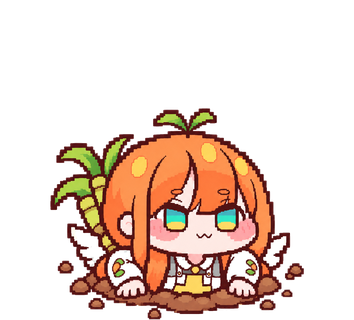
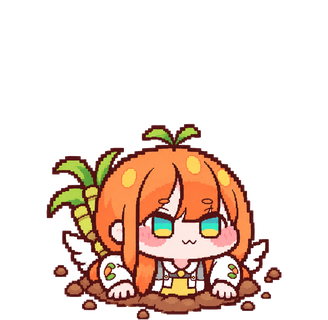
캐릭터 터치: 톡=오늘의 수확, 두 번 톡=정원 초대+메뉴, 꾹 눌러 끌기=볼 당김 이동 / 산책은 1.5초만 걷기

Changed region(s): [[0.122, 0.3125, 0.8841, 1.0]]

diff --git a/android/app/src/main/java/com/oddfactory/carrot/CarrotService.java b/android/app/src/main/java/com/oddfactory/carrot/CarrotService.java
@@ -21,7 +21,15 @@ import android.os.Looper;
 import android.os.Process;
 import android.os.SystemClock;
 import android.os.UserHandle;
+import android.view.Gravity;
+import android.view.MotionEvent;
+import android.view.View;
 import android.view.WindowManager;
+import android.widget.Button;
+import android.widget.LinearLayout;
+import android.graphics.Typeface;
+import android.graphics.RectF;
+import android.graphics.drawable.GradientDrawable;
 import android.view.accessibility.AccessibilityEvent;
 import android.view.accessibility.AccessibilityNodeInfo;
 import android.view.accessibility.AccessibilityWindowInfo;
@@ -50,6 +58,8 @@ public final class CarrotService extends AccessibilityService {
 
     WindowManager wm;
     Stage stage;
+    View grip, menu;              // 캐릭터 몸 위치에만 있는 터치 창, 두 번 톡 메뉴
+    WindowManager.LayoutParams gripLp;
     SharedPreferences prefs;
     final Handler h = new Handler(Looper.getMainLooper());
     String launcher = "";
@@ -85,6 +95,18 @@ public final class CarrotService extends AccessibilityService {
         lp.setTitle("CarrotStage");
         stage.setVisibility(android.view.View.INVISIBLE);
         wm.addView(stage, lp);
+        // 터치 창: 캐릭터 몸 크기만큼만 화면을 받고, 나머지는 아래 앱으로 그대로 간다
+        grip = new View(this);
+        grip.setOnTouchListener(this::onGripTouch);
+        gripLp = new WindowManager.LayoutParams(1, 1, WindowManager.LayoutParams.TYPE_ACCESSIBILITY_OVERLAY,
+                WindowManager.LayoutParams.FLAG_NOT_FOCUSABLE | WindowManager.LayoutParams.FLAG_NOT_TOUCH_MODAL
+                        | WindowManager.LayoutParams.FLAG_LAYOUT_IN_SCREEN | WindowManager.LayoutParams.FLAG_LAYOUT_NO_LIMITS,
+                PixelFormat.TRANSLUCENT);
+        gripLp.gravity = Gravity.TOP | Gravity.START;
+        gripLp.setTitle("CarrotGrip");
+        grip.setVisibility(View.GONE);
+        wm.addView(grip, gripLp);
+        stage.listener = this::placeGrip;
         refreshStale();
         h.post(poll);
         log("connected launcher=" + launcher);
@@ -332,6 +354,83 @@ public final class CarrotService extends AccessibilityService {
         } catch (Exception ignored) {}
     }
 
+    // ---- 터치 ----
+    int gx = -1, gy = -1, gw = -1, gh = -1;
+    void placeGrip(RectF r) {
+        if (grip == null) return;
+        boolean on = !r.isEmpty();
+        if (!on) { if (grip.getVisibility() != View.GONE) grip.setVisibility(View.GONE); return; }
+        int x = Math.round(r.left), y = Math.round(r.top), w = Math.round(r.width()), hh = Math.round(r.height());
+        if (grip.getVisibility() != View.VISIBLE) { grip.setVisibility(View.VISIBLE); gx = -1; }
+        if (x == gx && y == gy && w == gw && hh == gh) return;
+        gx = x; gy = y; gw = w; gh = hh;
+        gripLp.x = x; gripLp.y = y; gripLp.width = w; gripLp.height = hh;
+        try { wm.updateViewLayout(grip, gripLp); } catch (RuntimeException ignored) {}
+    }
+
+    float downX, downY; long lastTapAt; boolean dragging; Runnable pendingTap, longPress;
+    boolean onGripTouch(View v, MotionEvent e) {
+        if (stage == null) return true;
+        float rx = e.getRawX(), ry = e.getRawY();
+        float dp = getResources().getDisplayMetrics().density;
+        switch (e.getActionMasked()) {
+            case MotionEvent.ACTION_DOWN:
+                downX = rx; downY = ry; dragging = false;
+                longPress = () -> dragging = stage.startDrag(downX, downY);
+                h.postDelayed(longPress, 350);
+                return true;
+            case MotionEvent.ACTION_MOVE:
+                if (!dragging && Math.hypot(rx - downX, ry - downY) > 10 * dp) { h.removeCallbacks(longPress); dragging = stage.startDrag(downX, downY); }
+                if (dragging) stage.dragTo(rx, ry);
+                return true;
+            case MotionEvent.ACTION_UP:
+            case MotionEvent.ACTION_CANCEL:
+                h.removeCallbacks(longPress);
+                if (dragging) { dragging = false; stage.endDrag(); return true; }
+                if (e.getActionMasked() == MotionEvent.ACTION_CANCEL) return true;
+                long now = SystemClock.uptimeMillis();
+                if (now - lastTapAt < 300 && pendingTap != null) { // 두 번 톡 → 정원 초대 + 메뉴
+                    h.removeCallbacks(pendingTap); pendingTap = null; lastTapAt = 0;
+                    stage.invite(); showMenu(); return true;
+                }
+                lastTapAt = now;
+                pendingTap = () -> { pendingTap = null; stage.tap(); };
+                h.postDelayed(pendingTap, 300);
+                return true;
+        }
+        return true;
+    }
+
+    void showMenu() {
+        hideMenu();
+        float dp = getResources().getDisplayMetrics().density;
+        LinearLayout box = new LinearLayout(this); box.setOrientation(LinearLayout.VERTICAL);
+        int p = Math.round(10 * dp); box.setPadding(p, p, p, p);
+        GradientDrawable bg = new GradientDrawable(); bg.setColor(0xFFFFFBF2); bg.setCornerRadius(16 * dp); bg.setStroke(Math.round(3 * dp), 0xFF3A2418);
+        box.setBackground(bg);
+        Typeface tf = null; try { tf = getResources().getFont(R.font.maple_bold); } catch (Exception ignored) {}
+        String[] labels = {"설정 열기", "캬롯 종료", "닫기"};
+        Runnable[] acts = {
+                () -> { hideMenu(); Intent i = new Intent(this, MainActivity.class); i.addFlags(Intent.FLAG_ACTIVITY_NEW_TASK); startActivity(i); },
+                () -> { hideMenu(); dismiss(null); },
+                this::hideMenu};
+        for (int i = 0; i < labels.length; i++) {
+            Button b = new Button(this); b.setText(labels[i]); b.setAllCaps(false); if (tf != null) b.setTypeface(tf);
+            final Runnable r = acts[i]; b.setOnClickListener(v -> r.run());
+            box.addView(b);
+        }
+        WindowManager.LayoutParams lp = new WindowManager.LayoutParams(-2, -2, WindowManager.LayoutParams.TYPE_ACCESSIBILITY_OVERLAY,
+                WindowManager.LayoutParams.FLAG_NOT_FOCUSABLE | WindowManager.LayoutParams.FLAG_WATCH_OUTSIDE_TOUCH | WindowManager.LayoutParams.FLAG_NOT_TOUCH_MODAL,
+                PixelFormat.TRANSLUCENT);
+        lp.gravity = Gravity.TOP | Gravity.START;
+        int sw = getResources().getDisplayMetrics().widthPixels;
+        lp.x = Math.round(Math.max(8 * dp, Math.min(sw - 200 * dp, gx + gw / 2f - 100 * dp)));
+        lp.y = Math.round(Math.max(24 * dp, gy - 190 * dp));
+        box.setOnTouchListener((v, ev) -> { if (ev.getActionMasked() == MotionEvent.ACTION_OUTSIDE) hideMenu(); return false; });
+        menu = box; wm.addView(box, lp);
+    }
+    void hideMenu() { if (menu != null) { try { wm.removeView(menu); } catch (RuntimeException ignored) {} menu = null; } }
+
     // ---- 첫 화면에서 부르는 것 ----
     /** 시작: 땅에서 솟아오르며 등장. */
     static void summon() {
@@ -366,6 +465,8 @@ public final class CarrotService extends AccessibilityService {
     @Override public void onDestroy() {
         h.removeCallbacksAndMessages(null);
         if (la != null) la.unregisterCallback(appsCb);
+        hideMenu();
+        if (grip != null) try { wm.removeView(grip); } catch (RuntimeException ignored) {}
         if (stage != null) { stage.stop(); try { wm.removeView(stage); } catch (RuntimeException ignored) {} }
         stage = null;
         if (current == this) current = null;

diff --git a/android/app/src/main/java/com/oddfactory/carrot/Stage.java b/android/app/src/main/java/com/oddfactory/carrot/Stage.java
@@ -63,7 +63,24 @@ final class Stage extends View {
             "e01_cat", 160, "e01_cat@1.12", 70, "e01_cat@0.6", 70, "e01_cat@0.25", 70, "e00_sprout", 300, "e00_sprout@1.15", 70,
             "e00_sprout@0.4", 70, "e00_sprout@0.05", 60);
 
-    enum S { IDLE, WALK, ACT, GRAB, TUG, POP, BARROW_OUT, ENTER, EXIT, OFF }
+    // 볼 당김(꾹 눌러 끌기): 앞 3장은 들어 올려지는 중, 뒤 2장을 누르고 있는 동안 반복
+    static final Clip PULL_IN = new Clip("pull_right_mid", 120, "pull_right_mid2", 140, "pull_right_peak", 160);
+    static final Clip PULL_LOOP = new Clip("pull_right_struggle_a", 150, "pull_right_struggle_b", 150);
+    static final Clip PULL_OUT = new Clip("pull_right_peak", 140, "pull_right_mid", 120, "master", 200);
+    // 한 번 톡: 오늘의 수확(당근을 쑥 뽑아 들어 보임)
+    static final Clip HARVEST = new Clip("master", 200, "h01_notice", 220, "m05_harvest", 240, "m05b_harvest_v2", 300,
+            "h03_popout", 220, "k05_harvest", 1400, "master", 300);
+    // 두 번 톡: 정원 초대(손 흔들기) 뒤 메뉴
+    static final Clip INVITE = new Clip("master", 150, "m06_invite", 160, "m06b_invite", 160, "k06_invite", 1100,
+            "m06b_invite", 160, "m06_invite", 160, "master", 200);
+    static final long WALK_MAX = 1500; // 산책 한 번에 걷는 최대 시간(ms)
+
+    enum S { IDLE, WALK, ACT, GRAB, TUG, POP, BARROW_OUT, ENTER, EXIT, DRAG, OFF }
+
+    interface Listener { void bodyAt(RectF r); }
+    Listener listener;
+    final RectF body = new RectF();
+    float grabDX, grabDY; long dragT0; boolean dragLoop;
     enum Goal { WANDER, DELETE_ONE, LOAD }
 
     final Sprites sp;
@@ -218,8 +235,20 @@ final class Stage extends View {
 
     String pick() {
         List<String> ks = new ArrayList<>(icons.keySet());
-        return ks.isEmpty() ? null : ks.get(rnd.nextInt(ks.size()));
+        if (ks.isEmpty()) return null;
+        if (!Float.isNaN(x)) { // 1.5초 안에 닿는 아이콘을 우선(제자리 아이콘은 빼고)
+            float reach = walkSpeed() * WALK_MAX / 1000f;
+            List<String> near = new ArrayList<>();
+            for (String k : ks) {
+                RectF r = icons.get(k);
+                float d = (float) Math.hypot(r.centerX() - charH() * 0.33f - x, r.bottom - y);
+                if (d <= reach && d > charH() * 0.15f) near.add(k);
+            }
+            if (!near.isEmpty()) return near.get(rnd.nextInt(near.size()));
+        }
+        return ks.get(rnd.nextInt(ks.size()));
     }
+    float walkSpeed() { return charH() * (goal == Goal.WANDER ? 0.55f : 0.9f); }
 
     /** 다음 할 일: 대기열(잡초) 우선, 없으면 아무 아이콘 앞으로 산책. */
     void next() {
@@ -249,7 +278,7 @@ final class Stage extends View {
 
     void arrive() {
         if (target != null && queue.contains(target)) { play(S.GRAB, GRAB); return; }
-        if (target == null && icons.isEmpty() && rnd.nextInt(3) == 0) { idle(1500 + rnd.nextInt(2000)); return; }
+        if (target == null && rnd.nextInt(3) == 0) { idle(1500 + rnd.nextInt(2000)); return; }
         play(S.ACT, rnd.nextBoolean() ? CLAP : WATER);
     }
 
@@ -262,13 +291,16 @@ final class Stage extends View {
             case ENTER:
                 if (t >= ENTER.total) idle(900);
                 break;
+            case DRAG:
+                break;
             case EXIT:
                 if (t >= EXIT.total) { s = S.OFF; x = Float.NaN; Runnable d = onExited; onExited = null; if (d != null) d.run(); }
                 break;
             case WALK: {
                 // 가던 아이콘이 화면에서 사라졌으면(페이지 넘김·다른 앱으로 전환) 새 목적지
                 if (target != null && goal == Goal.WANDER && !icons.containsKey(target)) { next(); break; }
-                float sp = charH() * (goal == Goal.WANDER ? 0.55f : 0.9f);
+                if (goal == Goal.WANDER && t >= WALK_MAX) { target = null; arrive(); break; } // 1.5초만 걷고 그 자리에서
+                float sp = walkSpeed();
                 float dx = tx - x, dy = ty - y, d = (float) Math.hypot(dx, dy);
                 if (d <= sp * dt) { x = tx; y = ty; arrive(); }
                 else { x += dx / d * sp * dt; y += dy / d * sp * dt; }
@@ -318,6 +350,7 @@ final class Stage extends View {
             case POP: return POP.at(t, false);
             case BARROW_OUT: return "b01_barrow";
             case ENTER: return ENTER.at(t, false);
+            case DRAG: return t < PULL_IN.total ? PULL_IN.at(t, false) : PULL_LOOP.at(t - PULL_IN.total, true);
             case EXIT: return EXIT.at(t, false);
             case IDLE: return (t % 3200) > 3040 ? "k01_blink" : "master";
             default: return "master";
@@ -332,13 +365,38 @@ final class Stage extends View {
             long now = SystemClock.uptimeMillis();
             float dt = Math.min(0.1f, (now - last) / 1000f); last = now;
             if (!Float.isNaN(x)) step(now, dt);
+            reportBody();
             invalidate();
             postOnAnimation(this);
         }
     };
+    void reportBody() {
+        if (listener == null) return;
+        if (!shownOnHome || Float.isNaN(x) || s == S.OFF || s == S.ENTER || s == S.EXIT) { body.setEmpty(); listener.bodyAt(body); return; }
+        float h = charH();
+        body.set(x - h * 0.3f + loc[0], y - h * 0.92f + loc[1], x + h * 0.3f + loc[0], y + loc[1]);
+        listener.bodyAt(body);
+    }
+
+    // ---- 터치(서비스의 터치 창에서) ----
+    boolean busy() { return s == S.ENTER || s == S.EXIT || s == S.OFF || s == S.GRAB || s == S.TUG || s == S.POP || s == S.BARROW_OUT; }
+    void tap() { if (!busy() && s != S.DRAG) play(S.ACT, HARVEST); }
+    void invite() { if (!busy() && s != S.DRAG) play(S.ACT, INVITE); }
+    boolean startDrag(float rawX, float rawY) {
+        if (busy()) return false;
+        grabDX = rawX - loc[0] - x; grabDY = rawY - loc[1] - y;
+        target = null; play(S.DRAG, null); return true;
+    }
+    void dragTo(float rawX, float rawY) {
+        if (s != S.DRAG) return;
+        x = Math.max(0, Math.min(getWidth(), rawX - loc[0] - grabDX));
+        y = Math.max(charH() * 0.9f, Math.min(getHeight(), rawY - loc[1] - grabDY));
+    }
+    void endDrag() { if (s == S.DRAG) { play(S.ACT, PULL_OUT); } }
+
     long pausedAt;
     void resume() { if (running) return; running = true; long now = SystemClock.uptimeMillis(); if (pausedAt > 0) t0 += now - pausedAt; last = now; postOnAnimation(tick); }
-    void pause() { running = false; pausedAt = SystemClock.uptimeMillis(); removeCallbacks(tick); }
+    void pause() { running = false; pausedAt = SystemClock.uptimeMillis(); removeCallbacks(tick); if (listener != null) { body.setEmpty(); listener.bodyAt(body); } }
     void stop() { pause(); }
 
     @Override protected void onDraw(Canvas c) {

diff --git a/tools/export_overlay.py b/tools/export_overlay.py
@@ -23,6 +23,9 @@ FRAMES = [
     "wn_lower1", "wn_lower2", "wn_grab_v2", "wn_pop",
     "b01_barrow",
     "e00_sprout", "e01_cat", "e01_cat_L", "e01_cat_R", "e01_cat_in", "e02_blink", "e03_hands", "e04_knee", "e05_rise",
+    "pull_right_mid", "pull_right_mid2", "pull_right_peak", "pull_right_struggle_a", "pull_right_struggle_b",
+    "h01_notice", "m05_harvest", "m05b_harvest_v2", "h03_popout", "k05_harvest",
+    "m06_invite", "m06b_invite", "k06_invite",
 ]
 
 
